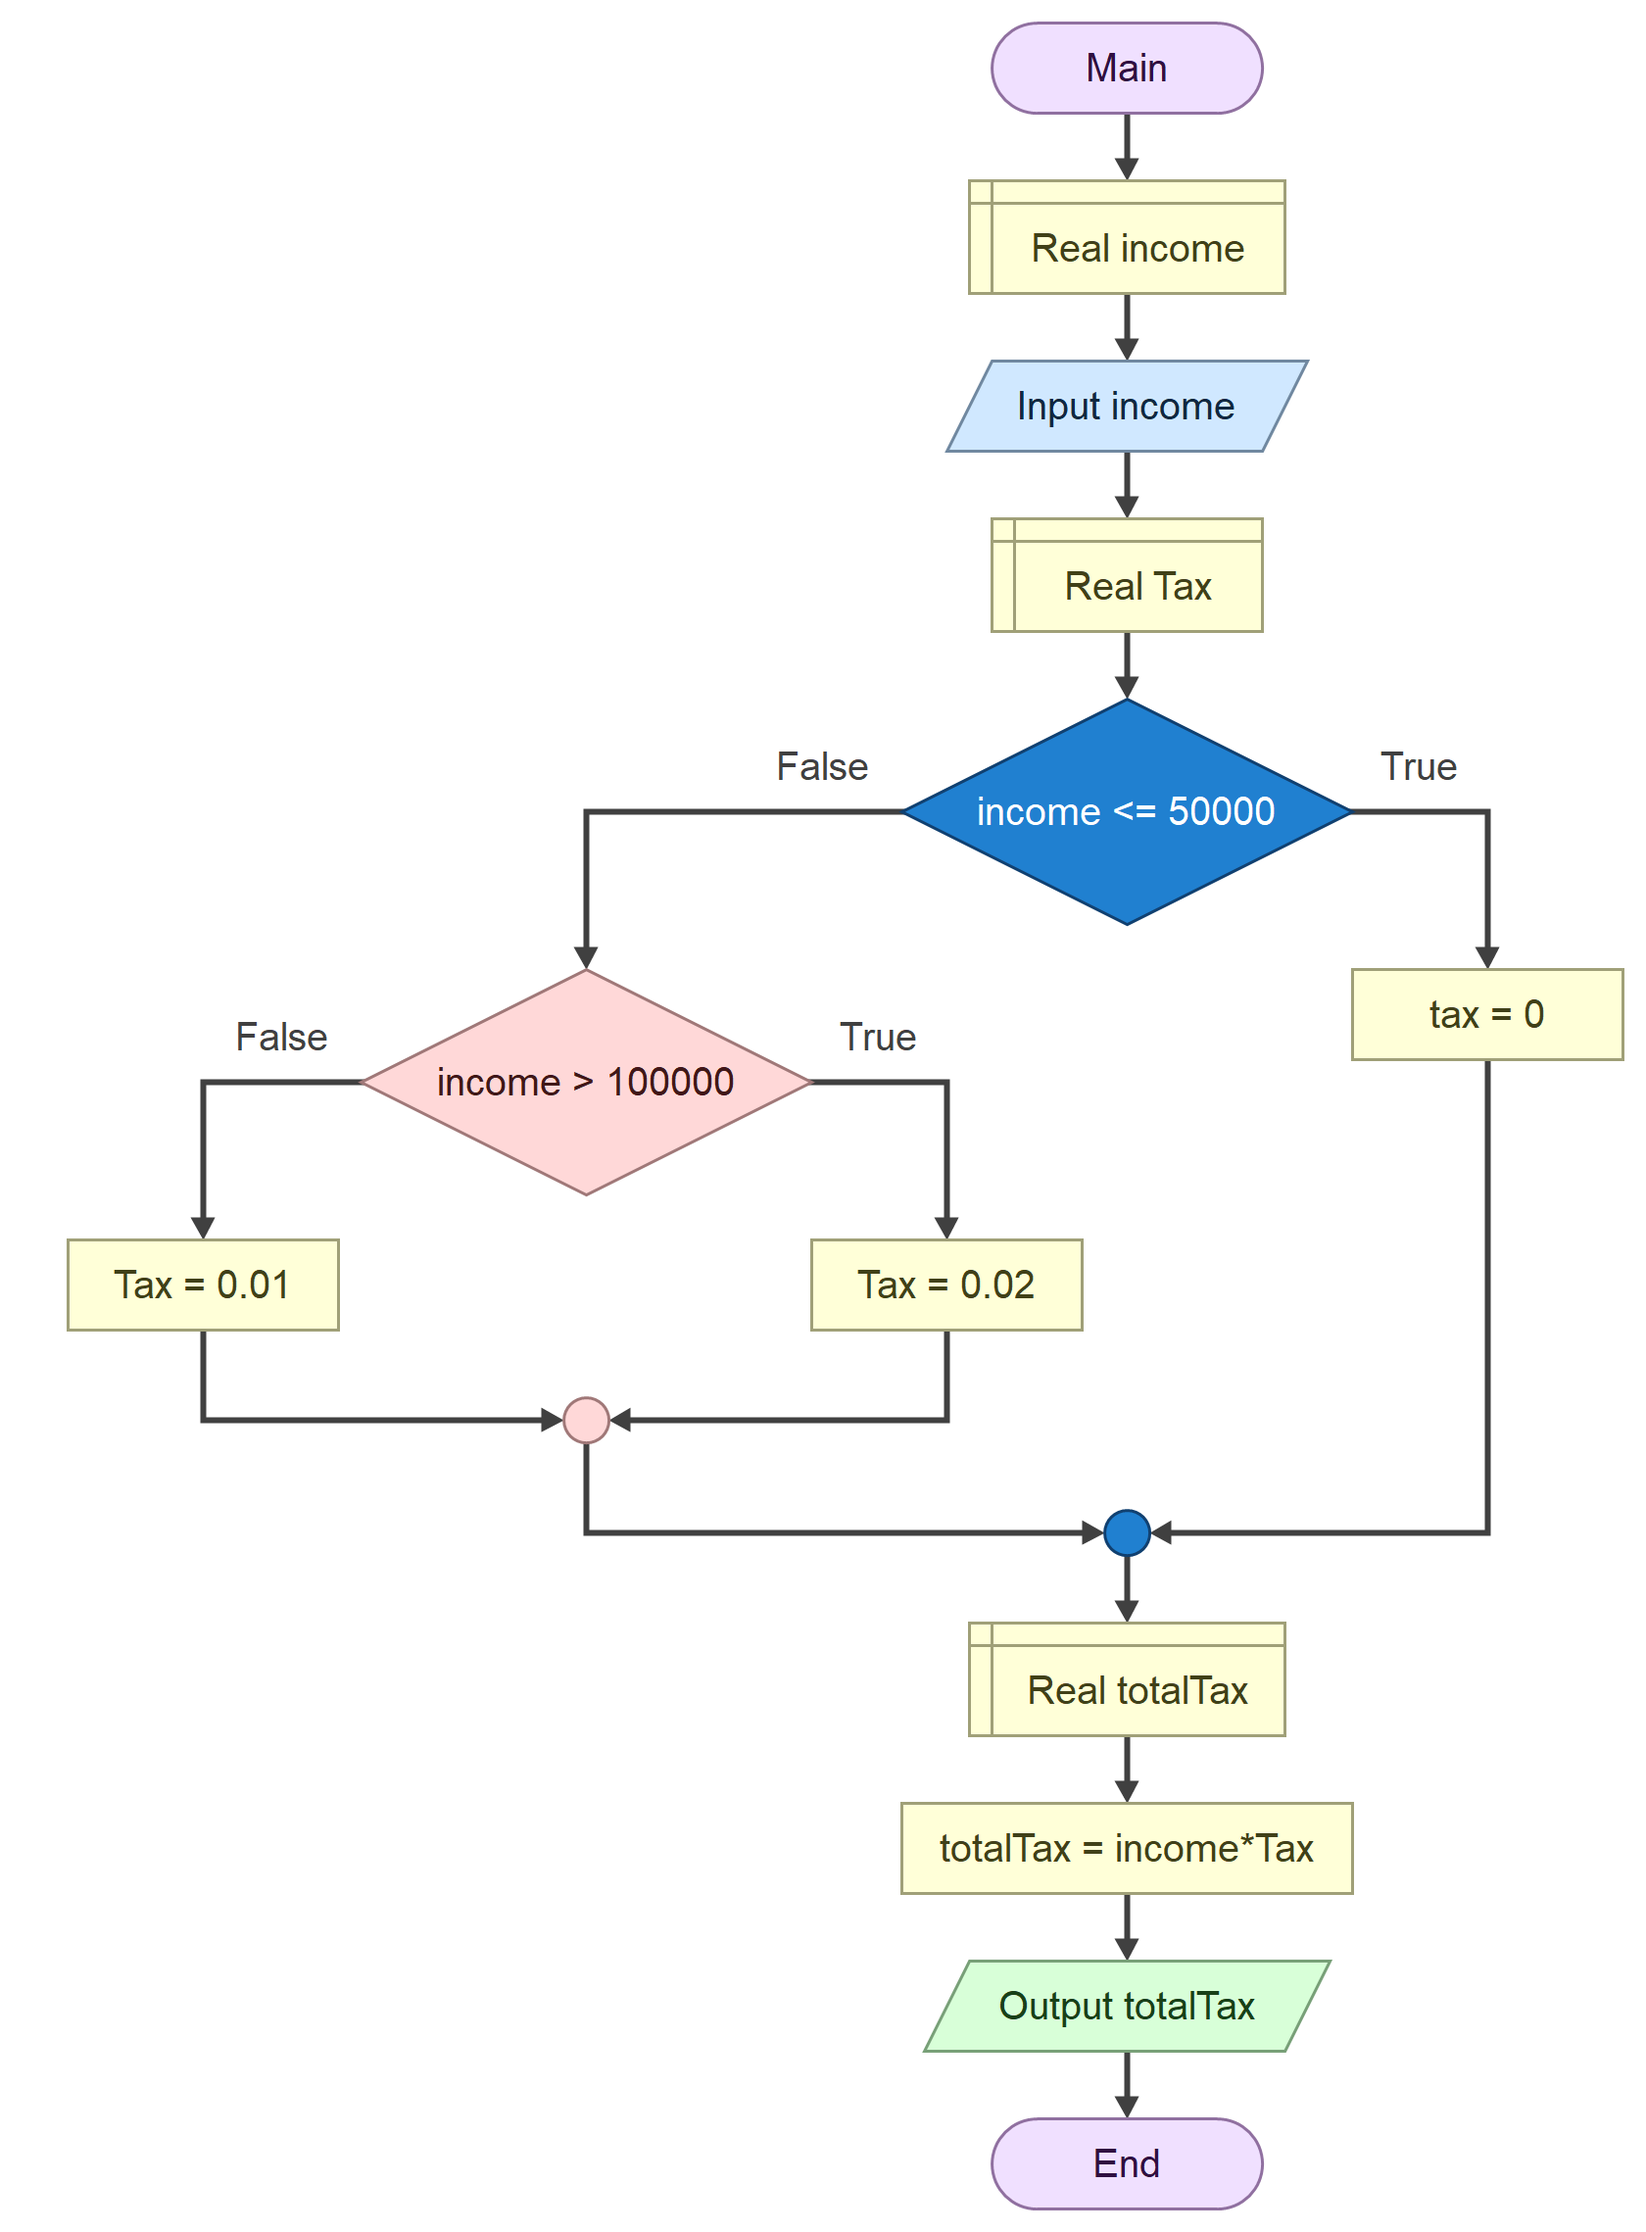
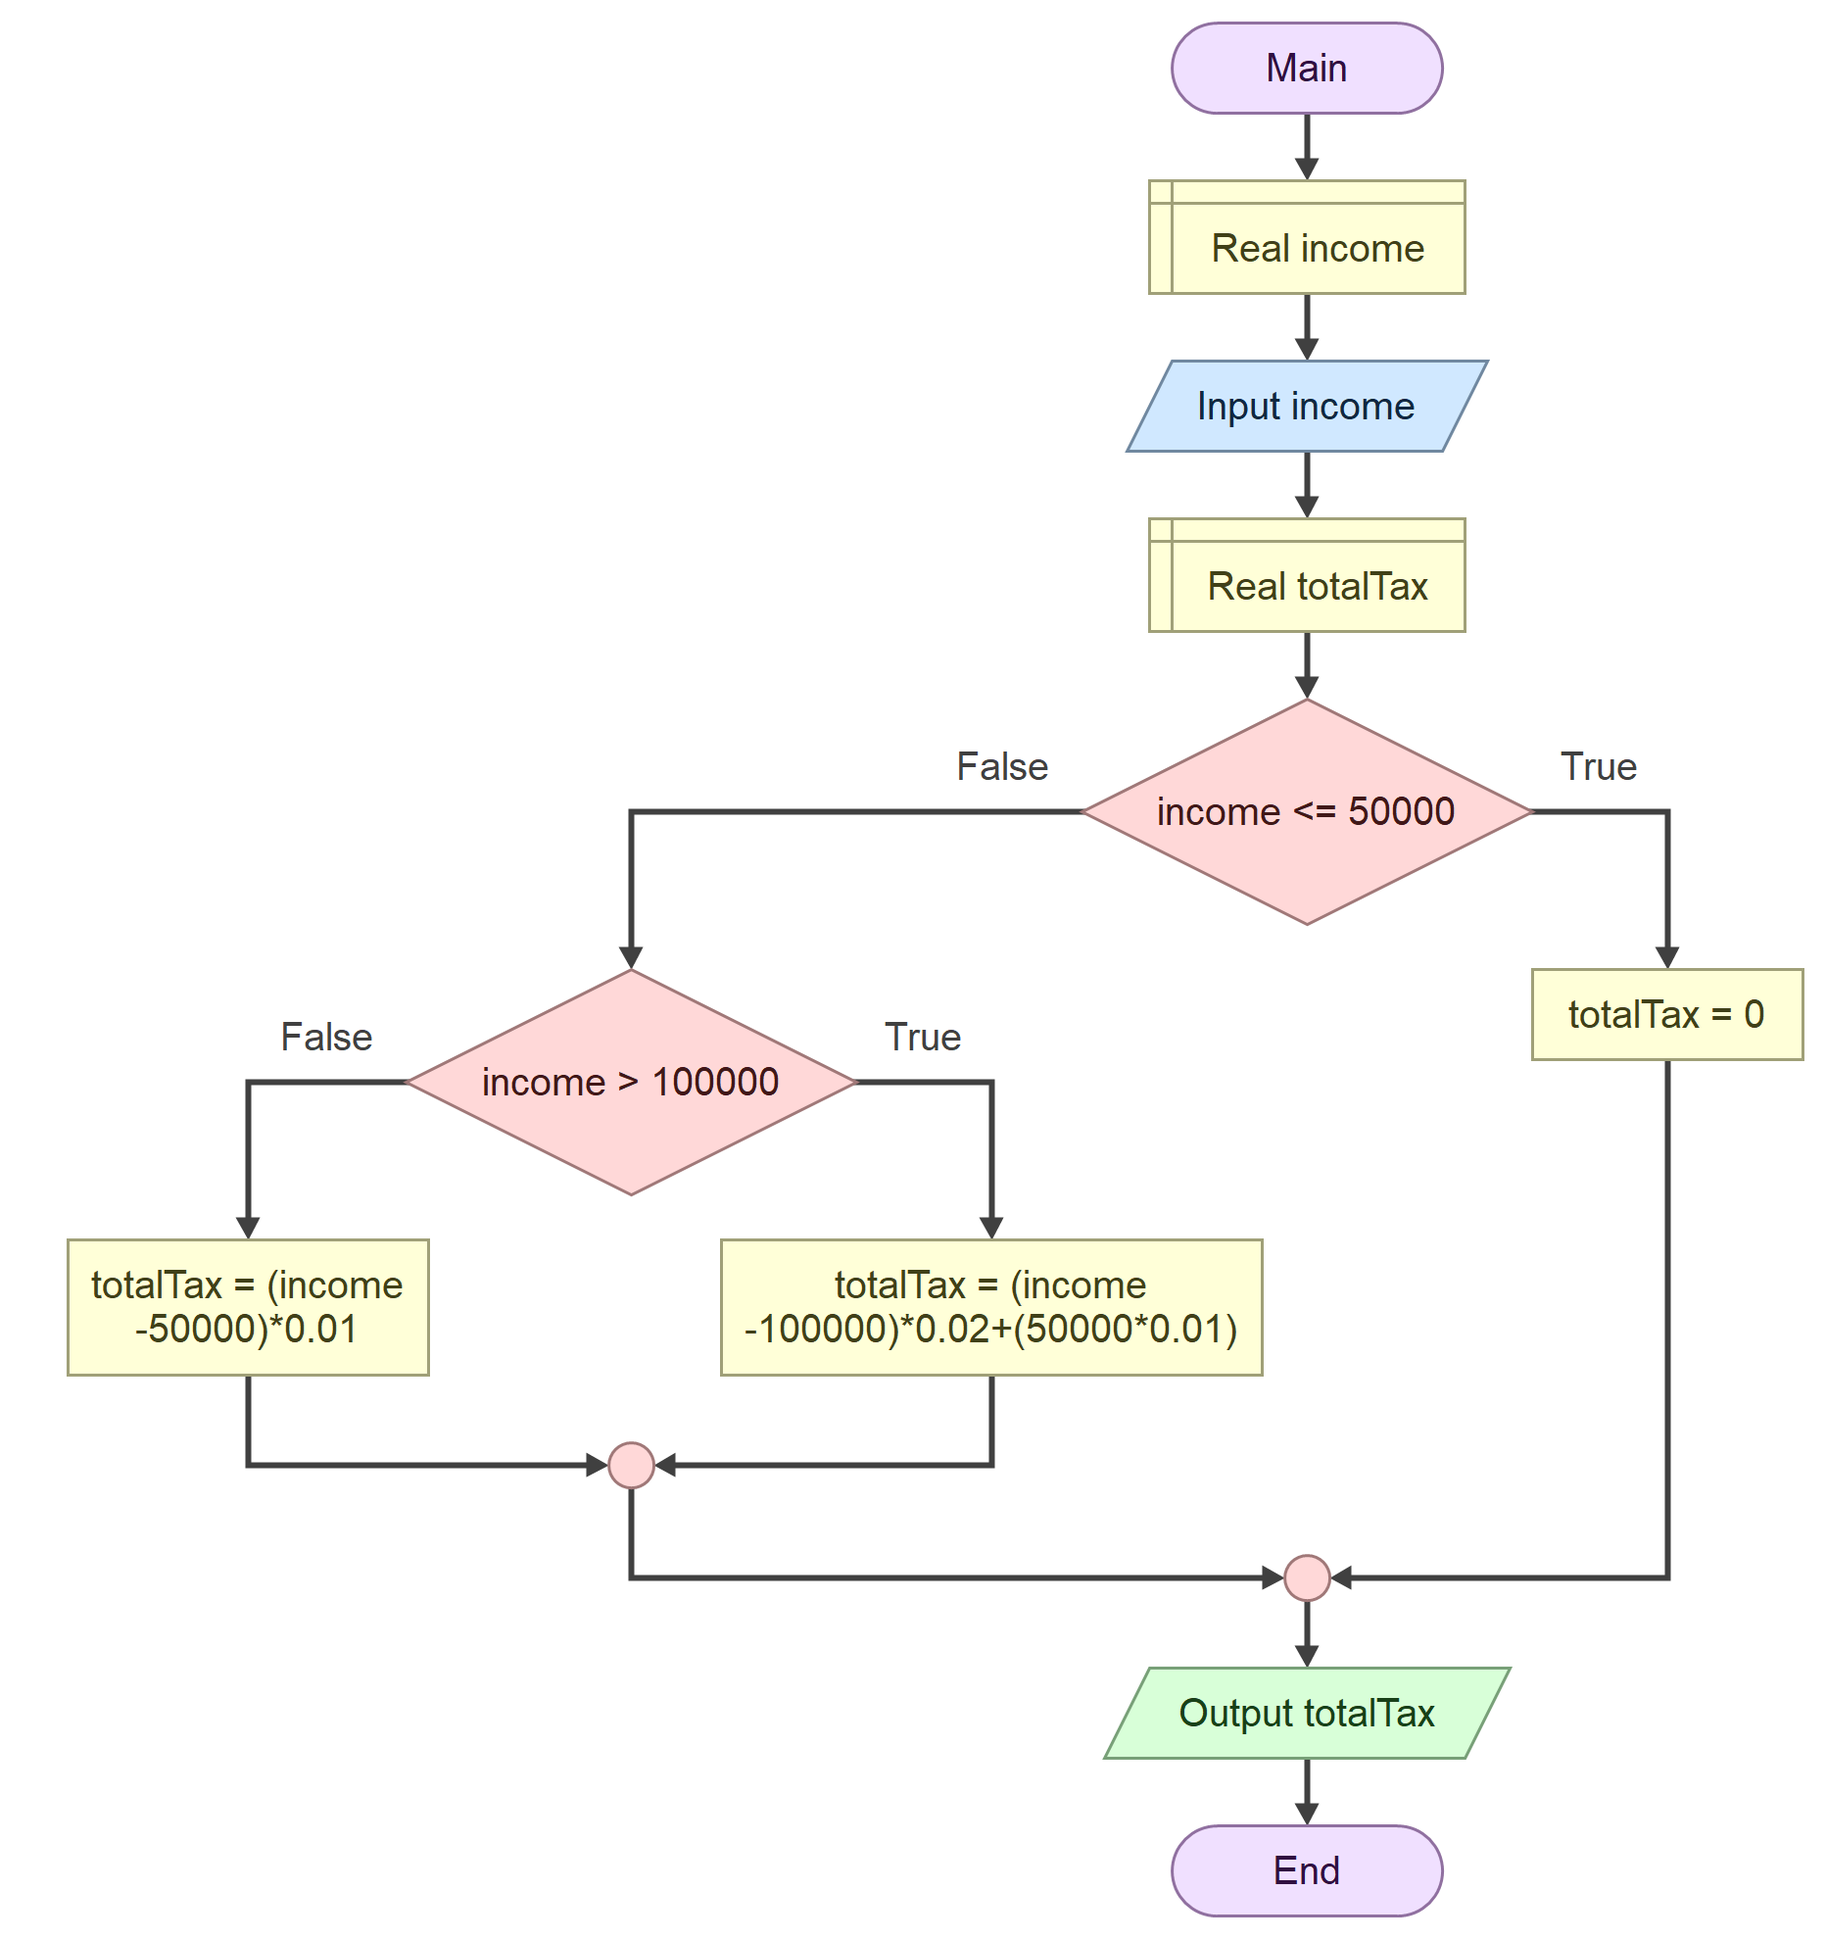
exercise 2

Changed region(s): [[0.031, 0.0, 0.9905, 1.0]]

diff --git a/labs/lab04/exercise2/lab-4-2.py b/labs/lab04/exercise2/lab-4-2.py
@@ -1,10 +1,9 @@
 income = float(input())
 if income <= 50000:
-    tax = 0
+    totalTax = 0
 else:
     if income > 100000:
-        tax = 0.02
+        totalTax = income - 100000 * 0.02 + 50000 * 0.01
     else:
-        tax = 0.01
-totalTax = income * tax
+        totalTax = income - 50000 * 0.01
 print(totalTax)
